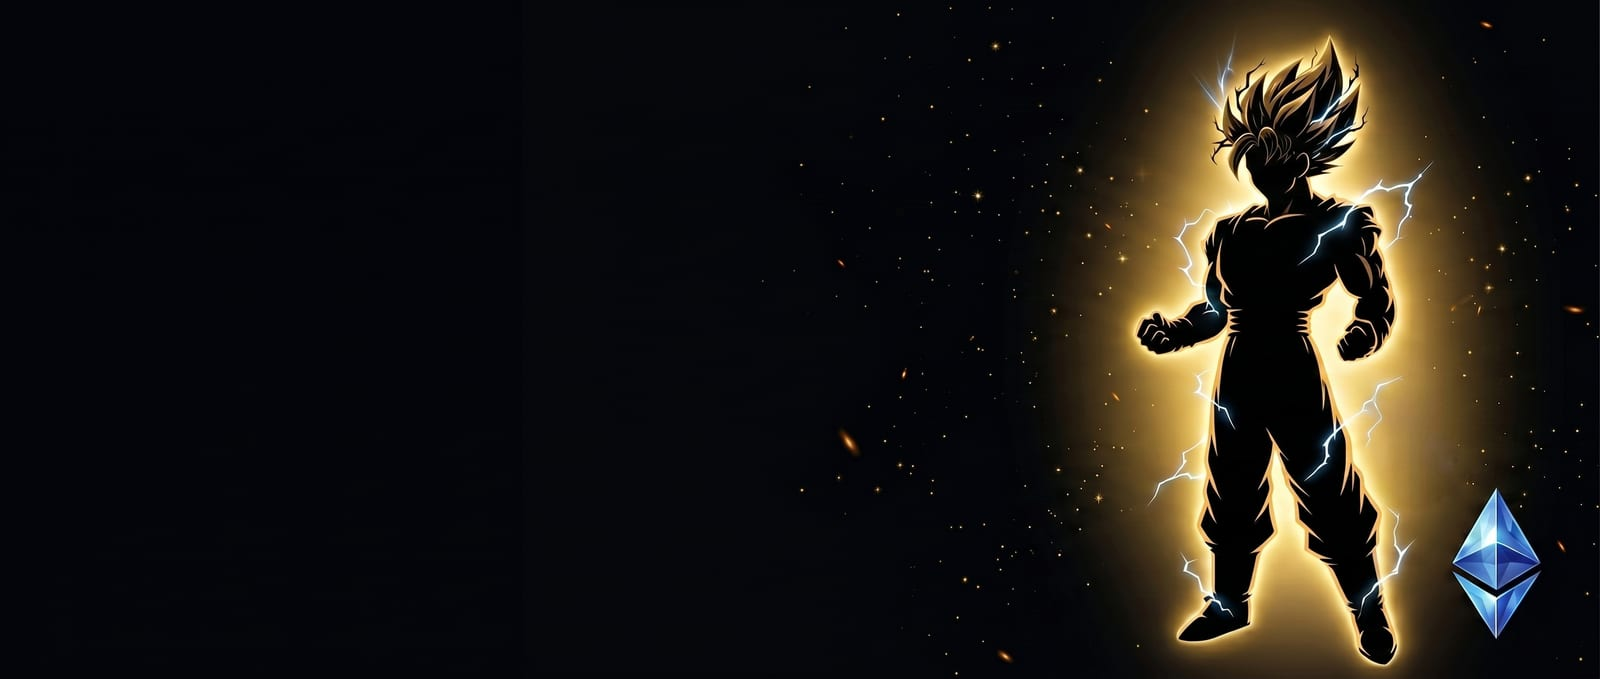
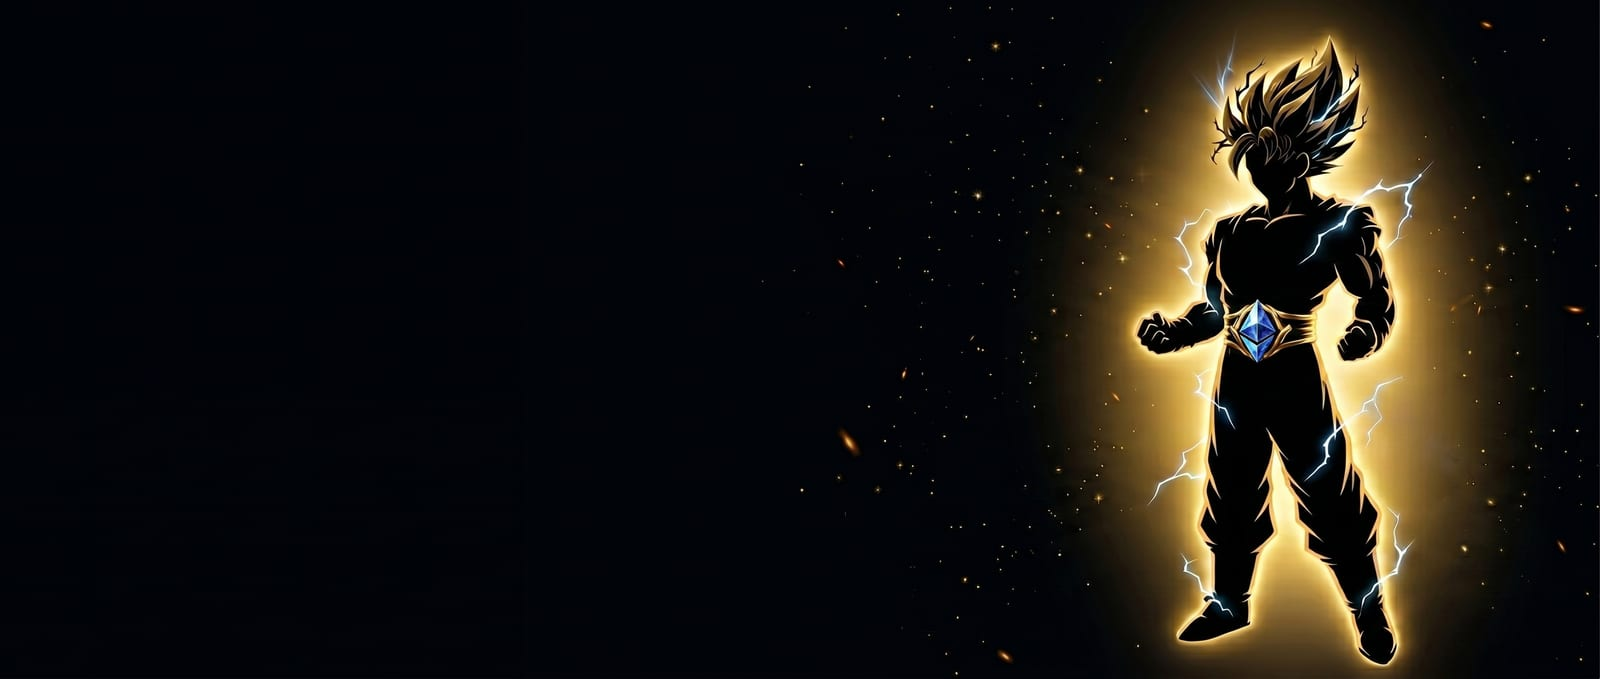
hero: swap to belt-crystal version, regenerate crops, enlarge mobile character

diff --git a/src/scene/HeroScene.js b/src/scene/HeroScene.js
@@ -191,19 +191,19 @@ export class HeroScene {
     const visW       = visH * viewAspect
 
     if (isMobile()) {
-      // Portrait phones: scale the character down to ~74% of full cover so it
-      // doesn't fill the screen edge-to-edge, and push it into the lower 2/3 so
-      // the title has clean breathing room up top. Some dark background showing
-      // around the figure is intentional here. Anchored on the CHARACTER (not the
-      // right edge) so the full figure stays in frame; crystal may sit partly off.
-      const SIZE       = 0.74
+      // Portrait phones: the ETH crystal now sits at the character's waist, so
+      // the figure can be larger without risking the crystal getting cropped.
+      // Scale to ~90% of cover and keep a modest downward offset so the head
+      // clears the title but there's little dead space up top. Anchored on the
+      // CHARACTER (not the right edge) so the full figure stays in frame.
+      const SIZE       = 0.90
       const coverScale = Math.max(visW / (visH * this._imageAspect), 1)
       const planeH     = visH * 1.04 * coverScale * SIZE
       const planeW     = planeH * this._imageAspect
       this._plane.scale.set(planeW, planeH, 1)
 
       this._plane.position.x = -planeW * 0.065   // character-anchored shift
-      this._plane.position.y = -visH * 0.12      // sit lower, clear of the title
+      this._plane.position.y = -visH * 0.07      // slight drop, head below title
     } else {
       // Desktop: fit by HEIGHT (landscape art always covers width), then pin the
       // right edge so the figure + crystal stay framed and only the left
